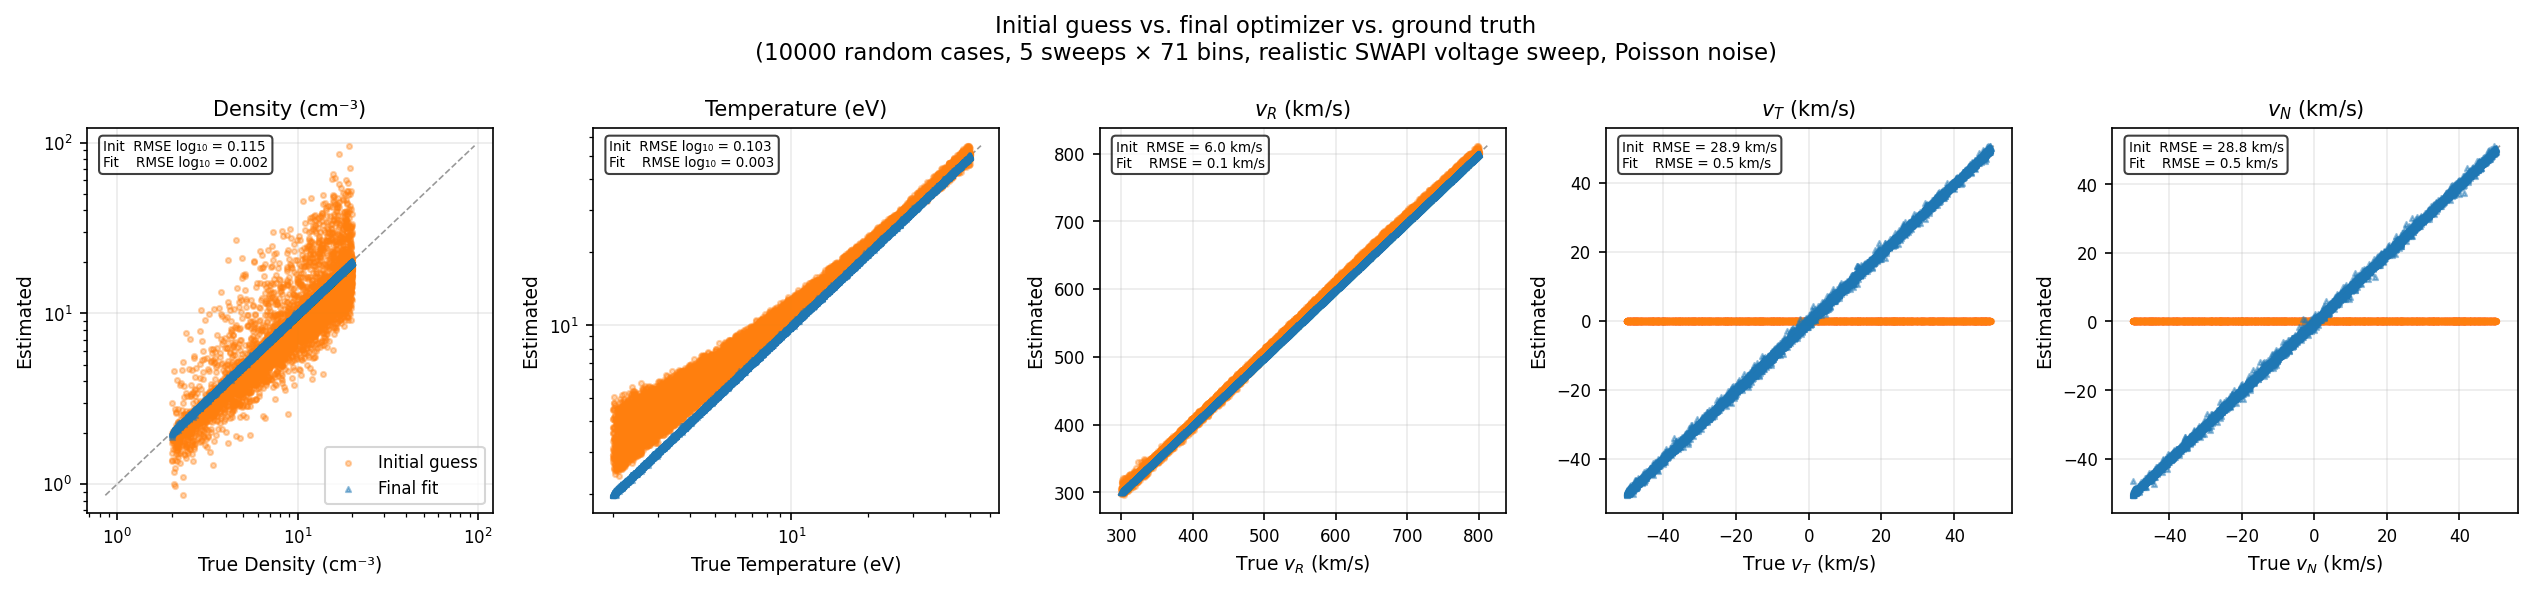
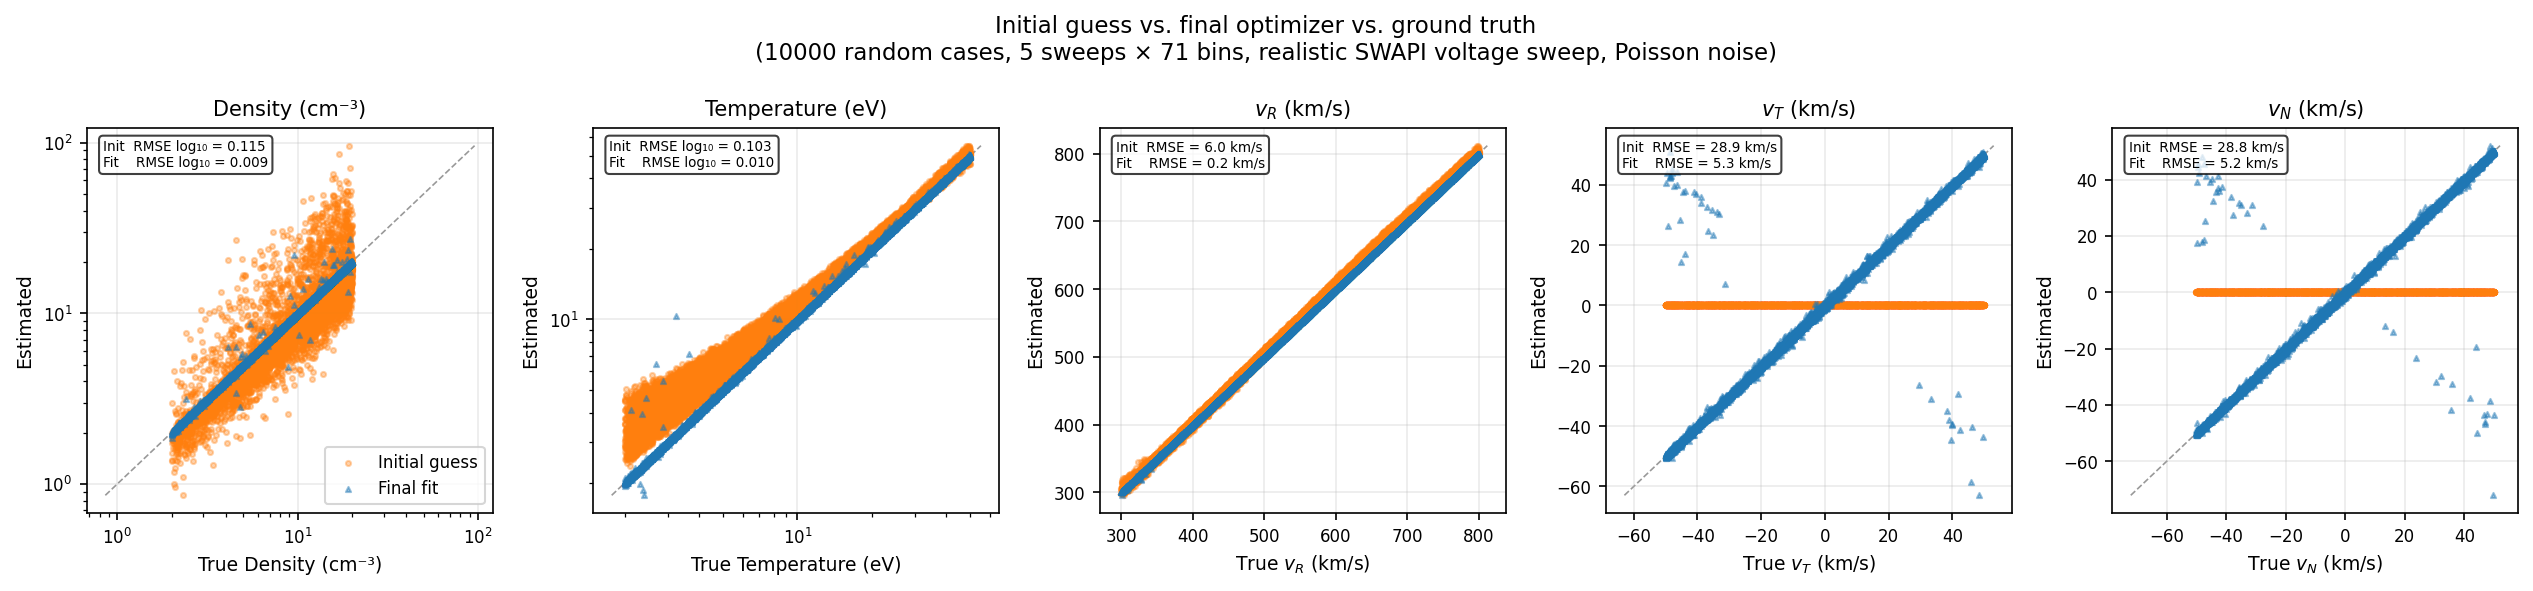
bugfixes

diff --git a/imap_l3_processing/swapi/l3a/utils.py b/imap_l3_processing/swapi/l3a/utils.py
@@ -1,4 +1,5 @@
 from datetime import datetime
+from threading import Lock
 from typing import Iterable
 
 import numpy as np
@@ -13,21 +14,38 @@ from imap_l3_processing.models import MagL1dData
 from imap_l3_processing.swapi.l3a.models import SwapiL2Data
 from imap_processing.spice.geometry import SpiceFrame, get_rotation_matrix, imap_state
 
+# CSPICE is not thread-safe: concurrent sxform/pxform/unitim calls corrupt the
+# global trace stack and trigger SIGABRT on the next SPICE error. Serialize all
+# SPICE calls across threads via this lock.
+_spice_lock = Lock()
+
 
 def read_l1d_mag_data(cdf_path) -> MagL1dData:
     with CDF(str(cdf_path)) as cdf:
+        var = cdf["b_dsrf"]
+        data = read_numeric_variable(var)[:, :3]
+        attrs = var.attrs
+        if "VALIDMIN" in attrs:
+            data = np.where(data < float(attrs["VALIDMIN"]), np.nan, data)
+        if "VALIDMAX" in attrs:
+            data = np.where(data > float(attrs["VALIDMAX"]), np.nan, data)
         return MagL1dData(
-            epoch=pycdf.lib.v_datetime_to_tt2000(cdf['epoch'][...]),
-            mag_data=read_numeric_variable(cdf["b_dsrf"])[:, :3])
+            epoch=pycdf.lib.v_datetime_to_tt2000(cdf["epoch"][...]),
+            mag_data=data,
+        )
 
 
 def read_l2_swapi_data(cdf: CDF) -> SwapiL2Data:
     sci_start_times = pycdf.lib.v_datetime_to_tt2000(
-        [datetime.fromisoformat(x) for x in cdf["sci_start_time"][...]])
-    return SwapiL2Data(sci_start_times,
-                       read_numeric_variable(cdf["esa_energy"]),
-                       read_numeric_variable(cdf["swp_coin_rate"]),
-                       read_numeric_variable(cdf["swp_coin_rate_stat_uncert_plus"]))
+        [datetime.fromisoformat(x) for x in cdf["sci_start_time"][...]]
+    )
+    return SwapiL2Data(
+        sci_start_times,
+        read_numeric_variable(cdf["esa_energy"]),
+        read_numeric_variable(cdf["swp_coin_rate"]),
+        read_numeric_variable(cdf["swp_coin_rate_stat_uncert_plus"]),
+    )
+
 
 def get_swapi_geometry(measurement_time: ndarray) -> tuple[ndarray, ndarray]:
     """Resolve SPICE geometry for a chunk of SWAPI measurements.
@@ -36,15 +54,26 @@ def get_swapi_geometry(measurement_time: ndarray) -> tuple[ndarray, ndarray]:
         rotation_matrices: shape (N, 3, 3) — RTN→SWAPI rotation at each measurement time.
         spacecraft_velocity_rtn: shape (3,), km/s — spacecraft velocity at the median time.
     """
-    # spiceypy.unitim is scalar-only, so vectorize over the input.
-    et_times = np.array([spiceypy.unitim(float(t), "TT", "ET")
-                         for t in np.atleast_1d(measurement_time) / ONE_SECOND_IN_NANOSECONDS])
-    rotation_matrices = get_rotation_matrix(et_times, SpiceFrame.IMAP_RTN, SpiceFrame.IMAP_SWAPI)
+    with _spice_lock:
+        # spiceypy.unitim is scalar-only, so vectorize over the input.
+        et_times = np.array(
+            [
+                spiceypy.unitim(float(t), "TT", "ET")
+                for t in np.atleast_1d(measurement_time) / ONE_SECOND_IN_NANOSECONDS
+            ]
+        )
+        rotation_matrices = get_rotation_matrix(
+            et_times, SpiceFrame.IMAP_RTN, SpiceFrame.IMAP_SWAPI
+        )
 
-    middle_et = float(np.median(et_times))
-    state_eclipj2000 = imap_state(middle_et, SpiceFrame.ECLIPJ2000)
-    rtn_from_eclipj2000 = get_rotation_matrix(middle_et, SpiceFrame.ECLIPJ2000, SpiceFrame.IMAP_RTN)
-    spacecraft_velocity_rtn = np.einsum("ij,j->i", rtn_from_eclipj2000, state_eclipj2000[3:])
+        middle_et = float(np.median(et_times))
+        state_eclipj2000 = imap_state(middle_et, SpiceFrame.ECLIPJ2000)
+        rtn_from_eclipj2000 = get_rotation_matrix(
+            middle_et, SpiceFrame.ECLIPJ2000, SpiceFrame.IMAP_RTN
+        )
+        spacecraft_velocity_rtn = np.einsum(
+            "ij,j->i", rtn_from_eclipj2000, state_eclipj2000[3:]
+        )
 
     return rotation_matrices, spacecraft_velocity_rtn
 
@@ -55,18 +84,24 @@ def get_swapi_dsrf_to_rtn(measurement_time_tt2000_ns: ndarray) -> ndarray:
     Mirrors the TT2000→ET conversion in get_swapi_geometry; used by the alpha moments
     fitter to rotate MAG L1D unit-B vectors (DSRF) into RTN before applying the
     field-aligned-drift constraint v_α = v_p* + Δv·B̂."""
-    et_times = np.array([spiceypy.unitim(float(t), "TT", "ET")
-                         for t in np.atleast_1d(measurement_time_tt2000_ns) / ONE_SECOND_IN_NANOSECONDS])
-    return get_rotation_matrix(et_times, SpiceFrame.IMAP_DPS, SpiceFrame.IMAP_RTN)
+    with _spice_lock:
+        et_times = np.array(
+            [
+                spiceypy.unitim(float(t), "TT", "ET")
+                for t in np.atleast_1d(measurement_time_tt2000_ns)
+                / ONE_SECOND_IN_NANOSECONDS
+            ]
+        )
+        return get_rotation_matrix(et_times, SpiceFrame.IMAP_DPS, SpiceFrame.IMAP_RTN)
 
 
 def chunk_l2_data(data: SwapiL2Data, chunk_size: int) -> Iterable[SwapiL2Data]:
     i = 0
     while i < len(data.sci_start_time):
         yield SwapiL2Data(
-            data.sci_start_time[i:i + chunk_size],
-            data.energy[i:i + chunk_size],
-            data.coincidence_count_rate[i:i + chunk_size],
-            data.coincidence_count_rate_uncertainty[i:i + chunk_size]
+            data.sci_start_time[i : i + chunk_size],
+            data.energy[i : i + chunk_size],
+            data.coincidence_count_rate[i : i + chunk_size],
+            data.coincidence_count_rate_uncertainty[i : i + chunk_size],
         )
         i += chunk_size

diff --git a/imap_l3_processing/swapi/l3a/science/calculate_proton_solar_wind_moments.py b/imap_l3_processing/swapi/l3a/science/calculate_proton_solar_wind_moments.py
@@ -121,12 +121,8 @@ def fit_solar_wind_proton_moments(
     # producing divide-by-zero deep inside the JIT integrator.
     keep = (esa_voltage > 0) & np.isfinite(esa_voltage)
 
-    # FWHM mask: keep only bins at or above half the peak count rate.  Bins in
-    # the deep tails carry almost no proton signal but add noise to the fit.
-    cr_max = float(np.nanmax(count_rate[keep])) if np.any(keep) else 0.0
-    fwhm_mask = count_rate >= 0.5 * cr_max
-    if int((keep & fwhm_mask).sum()) >= 5:
-        keep = keep & fwhm_mask
+    # TODO: adjacent ESA voltages only
+    keep = keep & (count_rate >= count_rate.max() * 0.1)
 
     if not np.all(keep):
         esa_voltage = esa_voltage[keep]
@@ -861,12 +857,17 @@ def _optimize(
 
     # Covariance in (log n, log T, vR, vT, vN) space via Moore-Penrose pseudoinverse
     # Assumes normalized residuals r_i = (model_i - data_i) / sigma_i are i.i.d. N(0,1)
-    cov_x = np.linalg.pinv(result.jac.T @ result.jac)
-
-    # Propagate log-space uncertainties to physical quantities
-    density_sigma = float(density * np.sqrt(max(cov_x[0, 0], 0.0)))
-    temperature_sigma = float(temperature * np.sqrt(max(cov_x[1, 1], 0.0)))
-    velocity_covariance = cov_x[2:5, 2:5]
+    # pinv→svd can fail when the Jacobian is degenerate (all-zero rows, ill-conditioned
+    # fit); fall back to NaN uncertainties rather than crashing.
+    try:
+        cov_x = np.linalg.pinv(result.jac.T @ result.jac)
+        density_sigma = float(density * np.sqrt(max(cov_x[0, 0], 0.0)))
+        temperature_sigma = float(temperature * np.sqrt(max(cov_x[1, 1], 0.0)))
+        velocity_covariance = cov_x[2:5, 2:5]
+    except np.linalg.LinAlgError:
+        density_sigma = np.nan
+        temperature_sigma = np.nan
+        velocity_covariance = np.full((3, 3), np.nan)
 
     return ProtonSolarWindMoments(
         density=density,

diff --git a/imap_l3_processing/swapi/l3a/science/calculate_alpha_solar_wind_moments.py b/imap_l3_processing/swapi/l3a/science/calculate_alpha_solar_wind_moments.py
@@ -465,29 +465,9 @@ def _alpha_initial_guess(
 
     bulk_speed = peak_fit.bulk_speed
     T_alpha = peak_fit.T_alpha
-    alpha_mask = peak_fit.alpha_mask
-    alpha_speeds = esa_voltage_to_alpha_speed(voltage_per_sweep)
-    sigma_thermal_v = max(
-        peak_fit.sigma_v,
-        float(
-            np.sqrt(
-                INITIAL_TEMPERATURE_FLOOR_EV
-                * PROTON_CHARGE_COULOMBS
-                / ALPHA_PARTICLE_MASS_KG
-            )
-            / METERS_PER_KILOMETER
-        ),
-    )
-
     # Project the inferred radial speed difference onto B̂ to get the initial Δv.
     R_hat = proton_bulk_velocity_rtn / v_p_speed
     dv0 = (bulk_speed - v_p_speed) * float(np.dot(R_hat, b_hat_rtn))
-
-    # Density at FWHM bins: sum-based estimate using the marginal deadtime response.
-    fwhm_half_speed = float(np.sqrt(2.0 * np.log(2.0))) * sigma_thermal_v
-    fwhm_mask = alpha_mask & (np.abs(alpha_speeds - bulk_speed) <= fwhm_half_speed)
-    if not np.any(fwhm_mask):
-        fwhm_mask = alpha_mask
 
     unit_alpha = _model_count_rates(
         1.0,
@@ -511,9 +491,9 @@ def _alpha_initial_guess(
     )
 
     numerator = float(
-        max(np.sum(count_avg[fwhm_mask] - proton_obs_avg[fwhm_mask]), 0.0)
+        max(np.sum(count_avg- proton_obs_avg), 0.0)
     )
-    denominator = float(np.sum(delta_alpha_obs_avg[fwhm_mask]))
+    denominator = float(np.sum(delta_alpha_obs_avg))
     if denominator <= 0 or not np.isfinite(denominator):
         return None
     n_alpha = max(numerator / denominator, 1e-3)

diff --git a/imap_l3_processing/swapi/swapi_processor.py b/imap_l3_processing/swapi/swapi_processor.py
@@ -4,7 +4,6 @@ from concurrent.futures import ThreadPoolExecutor
 from dataclasses import replace, astuple
 
 import numpy as np
-import spiceypy
 from imap_data_access.processing_input import ProcessingInputCollection
 from uncertainties import ufloat
 from uncertainties.unumpy import uarray, nominal_values
@@ -109,17 +108,11 @@ def _compute_b_hat_rtn(
     )[0]
     if not np.all(np.isfinite(b_dsrf)) or np.linalg.norm(b_dsrf) < 1e-12:
         return np.full(3, np.nan)
-    # DPS CK has ~2-minute daily gaps; querying sxform during a gap triggers a
-    # CSPICE trcpkg crash (SIGABRT) after many prior CK reads on large files.
-    # RETURN mode converts the abort to a catchable Python exception.
-    spiceypy.erract('SET', 256, 'RETURN')
     try:
         R = get_swapi_dsrf_to_rtn(np.array([chunk_epoch_center_tt2000_ns]))[0]
     except Exception:
+        # DPS CK has ~2-minute daily gaps; return NaN when frame is unavailable.
         return np.full(3, np.nan)
-    finally:
-        spiceypy.reset()
-        spiceypy.erract('SET', 256, 'ABORT')
     b_rtn = R @ b_dsrf
     return b_rtn / np.linalg.norm(b_rtn)
 

diff --git a/docs/swapi/solar-wind-moments.md b/docs/swapi/solar-wind-moments.md
@@ -10,6 +10,9 @@
 
 ## TODO
 
+- [ ] fix protons. there was some sort of regression that made it no longer work for the basin problem. probably related to the open aperutre handling
+- [ ] Constrain the speed of the alphas in the fit, not just in the initial guess
+- [ ] thread pool vs multi processing... thread pool seems to be using too little resources
 - [ ] Validate alphas
 - [ ] Empirically validate alpha-species correction $\mathcal{A}_0^\alpha/\mathcal{A}_0^p = \varepsilon_\alpha/\varepsilon_p$ against OMNI alpha density (the paper does not prove this; alpha ABM measurements weren't taken)
 - [ ] Coordinate with cal-file format owner to add a `lab_time` field to the efficiency LUT.
